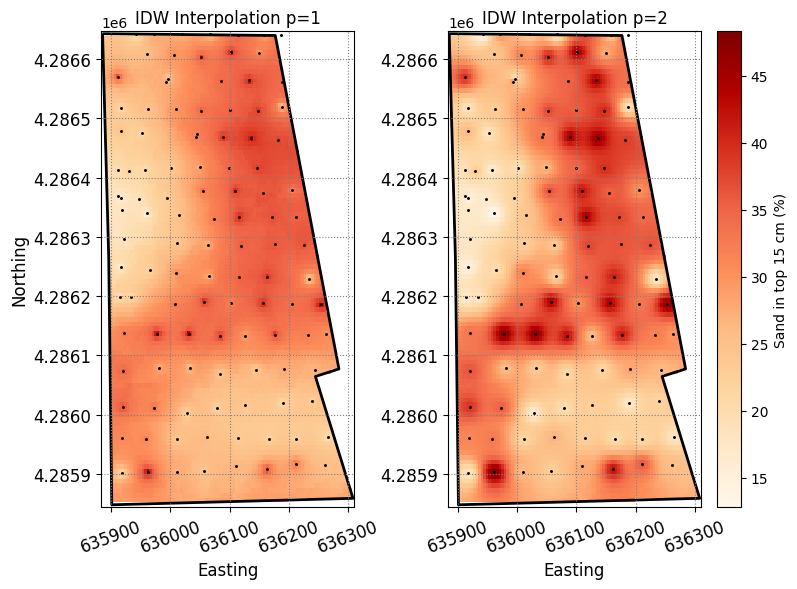
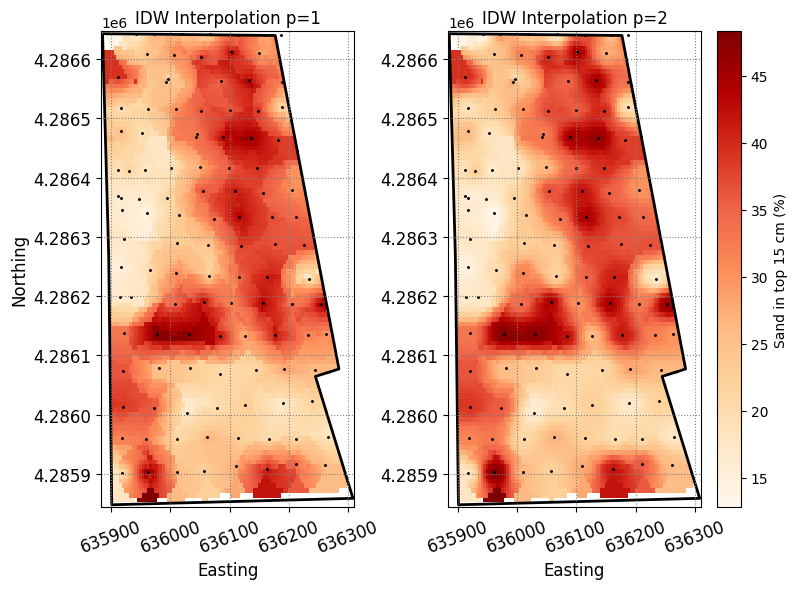
Added analytical soution

diff --git a/docs/exercises/optimal_nitrogen_rate.html b/docs/exercises/optimal_nitrogen_rate.html
@@ -800,7 +800,13 @@ gtag('config', 'G-N9033JNDWZ', { 'anonymize_ip': true});
 <div id="quarto-sidebar-glass" data-bs-toggle="collapse" data-bs-target="#quarto-sidebar,#quarto-sidebar-glass"></div>
 <!-- margin-sidebar -->
     <div id="quarto-margin-sidebar" class="sidebar margin-sidebar">
-        
+        <nav id="TOC" role="doc-toc" class="toc-active">
+    <h2 id="toc-title">Table of contents</h2>
+   
+  <ul>
+  <li><a href="#analytical-solution" id="toc-analytical-solution" class="nav-link active" data-scroll-target="#analytical-solution">Analytical solution</a></li>
+  </ul>
+<div class="toc-actions"><div><i class="bi bi-github"></i></div><div class="action-links"><p><a href="https://github.dev/soilwater/pynotes-agriscience/blob/main/exercises/optimal_nitrogen_rate.ipynb" class="toc-action">Edit this page</a></p></div></div></nav>
     </div>
 <!-- main -->
 <main class="content" id="quarto-document-content">
@@ -837,22 +843,22 @@ gtag('config', 'G-N9033JNDWZ', { 'anonymize_ip': true});
 <p><strong>Dataset description</strong>: Fertilized corn crop in Nebraska.</p>
 <p>Corn Trial conducted jointly with Dennis Francis and Jim Schepers, USDA-ARS, University of Nebraska, Lincoln, NE. Corn trial located near Shelton, NE. Harvested in October, 2003</p>
 <p>Source: <a href="http://www.nue.okstate.edu/Nitrogen_Conference2003/Corn_Research.htm" class="uri">http://www.nue.okstate.edu/Nitrogen_Conference2003/Corn_Research.htm</a></p>
-<div class="cell" data-execution_count="1">
+<div class="cell" data-execution_count="2">
 <div class="sourceCode cell-code" id="cb1"><pre class="sourceCode python code-with-copy"><code class="sourceCode python"><span id="cb1-1"><a href="#cb1-1" aria-hidden="true" tabindex="-1"></a><span class="im">import</span> numpy <span class="im">as</span> np</span>
 <span id="cb1-2"><a href="#cb1-2" aria-hidden="true" tabindex="-1"></a><span class="im">import</span> pandas <span class="im">as</span> pd</span>
 <span id="cb1-3"><a href="#cb1-3" aria-hidden="true" tabindex="-1"></a><span class="im">import</span> matplotlib.pyplot <span class="im">as</span> plt</span>
 <span id="cb1-4"><a href="#cb1-4" aria-hidden="true" tabindex="-1"></a><span class="im">from</span> numpy.polynomial <span class="im">import</span> polynomial <span class="im">as</span> P</span></code><button title="Copy to Clipboard" class="code-copy-button"><i class="bi"></i></button></pre></div>
 </div>
-<div class="cell" data-execution_count="7">
+<div class="cell" data-execution_count="3">
 <div class="sourceCode cell-code" id="cb2"><pre class="sourceCode python code-with-copy"><code class="sourceCode python"><span id="cb2-1"><a href="#cb2-1" aria-hidden="true" tabindex="-1"></a><span class="co"># Define auxiliary function for computing the root mean squared error (RMSE)</span></span>
 <span id="cb2-2"><a href="#cb2-2" aria-hidden="true" tabindex="-1"></a>rmse_fn <span class="op">=</span> <span class="kw">lambda</span> obs,pred: np.sqrt(np.mean((obs <span class="op">-</span> pred)<span class="op">**</span><span class="dv">2</span>))</span></code><button title="Copy to Clipboard" class="code-copy-button"><i class="bi"></i></button></pre></div>
 </div>
-<div class="cell" data-execution_count="3">
+<div class="cell" data-execution_count="4">
 <div class="sourceCode cell-code" id="cb3"><pre class="sourceCode python code-with-copy"><code class="sourceCode python"><span id="cb3-1"><a href="#cb3-1" aria-hidden="true" tabindex="-1"></a><span class="co"># Fit polynomial: Example using yield responses to nitrogen rates</span></span>
 <span id="cb3-2"><a href="#cb3-2" aria-hidden="true" tabindex="-1"></a>yield_obs <span class="op">=</span> [<span class="dv">118</span>, <span class="dv">165</span>, <span class="dv">170</span>, <span class="dv">193</span>, <span class="dv">180</span>, <span class="dv">181</span>, <span class="dv">141</span>, <span class="dv">177</span>, <span class="dv">165</span>, <span class="dv">197</span>, <span class="dv">175</span>] <span class="co"># Corn yield</span></span>
 <span id="cb3-3"><a href="#cb3-3" aria-hidden="true" tabindex="-1"></a>nitrogen_obs <span class="op">=</span>  [<span class="dv">0</span>, <span class="dv">89</span>, <span class="dv">161</span>, <span class="dv">165</span>, <span class="dv">80</span>, <span class="dv">160</span>, <span class="dv">37</span>, <span class="dv">105</span>, <span class="dv">69</span>, <span class="dv">123</span>, <span class="dv">141</span>]</span></code><button title="Copy to Clipboard" class="code-copy-button"><i class="bi"></i></button></pre></div>
 </div>
-<div class="cell" data-execution_count="4">
+<div class="cell" data-execution_count="5">
 <div class="sourceCode cell-code" id="cb4"><pre class="sourceCode python code-with-copy"><code class="sourceCode python"><span id="cb4-1"><a href="#cb4-1" aria-hidden="true" tabindex="-1"></a><span class="co"># Visualize field observations</span></span>
 <span id="cb4-2"><a href="#cb4-2" aria-hidden="true" tabindex="-1"></a></span>
 <span id="cb4-3"><a href="#cb4-3" aria-hidden="true" tabindex="-1"></a>plt.figure(figsize<span class="op">=</span>(<span class="dv">5</span>,<span class="dv">4</span>))</span>
@@ -864,7 +870,7 @@ gtag('config', 'G-N9033JNDWZ', { 'anonymize_ip': true});
 <p><img src="optimal_nitrogen_rate_files/figure-html/cell-5-output-1.png" class="img-fluid"></p>
 </div>
 </div>
-<div class="cell" data-execution_count="11">
+<div class="cell" data-execution_count="6">
 <div class="sourceCode cell-code" id="cb5"><pre class="sourceCode python code-with-copy"><code class="sourceCode python"><span id="cb5-1"><a href="#cb5-1" aria-hidden="true" tabindex="-1"></a><span class="co"># Fit polynomial model</span></span>
 <span id="cb5-2"><a href="#cb5-2" aria-hidden="true" tabindex="-1"></a>par <span class="op">=</span> P.polyfit(nitrogen_obs, yield_obs, <span class="dv">2</span>)</span>
 <span id="cb5-3"><a href="#cb5-3" aria-hidden="true" tabindex="-1"></a><span class="bu">print</span>(par)</span>
@@ -874,7 +880,7 @@ gtag('config', 'G-N9033JNDWZ', { 'anonymize_ip': true});
 <pre><code>[ 1.15569115e+02  9.61329119e-01 -3.41221057e-03]</code></pre>
 </div>
 </div>
-<div class="cell" data-execution_count="10">
+<div class="cell" data-execution_count="7">
 <div class="sourceCode cell-code" id="cb7"><pre class="sourceCode python code-with-copy"><code class="sourceCode python"><span id="cb7-1"><a href="#cb7-1" aria-hidden="true" tabindex="-1"></a><span class="co"># Compute fitting error</span></span>
 <span id="cb7-2"><a href="#cb7-2" aria-hidden="true" tabindex="-1"></a></span>
 <span id="cb7-3"><a href="#cb7-3" aria-hidden="true" tabindex="-1"></a><span class="co"># Compute </span></span>
@@ -886,15 +892,15 @@ gtag('config', 'G-N9033JNDWZ', { 'anonymize_ip': true});
 <pre><code>8.4 kg/ha</code></pre>
 </div>
 </div>
-<div class="cell" data-execution_count="12">
+<div class="cell" data-execution_count="8">
 <div class="sourceCode cell-code" id="cb9"><pre class="sourceCode python code-with-copy"><code class="sourceCode python"><span id="cb9-1"><a href="#cb9-1" aria-hidden="true" tabindex="-1"></a><span class="co"># Compute fitted curve</span></span>
 <span id="cb9-2"><a href="#cb9-2" aria-hidden="true" tabindex="-1"></a>N_min <span class="op">=</span> np.<span class="bu">min</span>(nitrogen_obs)</span>
 <span id="cb9-3"><a href="#cb9-3" aria-hidden="true" tabindex="-1"></a>N_max <span class="op">=</span> np.<span class="bu">max</span>(nitrogen_obs)</span>
 <span id="cb9-4"><a href="#cb9-4" aria-hidden="true" tabindex="-1"></a></span>
-<span id="cb9-5"><a href="#cb9-5" aria-hidden="true" tabindex="-1"></a>nitrogen_curve <span class="op">=</span> np.linspace(N_min, N_max)</span>
+<span id="cb9-5"><a href="#cb9-5" aria-hidden="true" tabindex="-1"></a>nitrogen_curve <span class="op">=</span> np.linspace(N_min, N_max, <span class="dv">50</span>)</span>
 <span id="cb9-6"><a href="#cb9-6" aria-hidden="true" tabindex="-1"></a>yield_curve <span class="op">=</span> P.polyval(nitrogen_curve, par)</span></code><button title="Copy to Clipboard" class="code-copy-button"><i class="bi"></i></button></pre></div>
 </div>
-<div class="cell" data-execution_count="15">
+<div class="cell" data-execution_count="9">
 <div class="sourceCode cell-code" id="cb10"><pre class="sourceCode python code-with-copy"><code class="sourceCode python"><span id="cb10-1"><a href="#cb10-1" aria-hidden="true" tabindex="-1"></a><span class="co"># Find index at which yield in the nitrogen curve is highest</span></span>
 <span id="cb10-2"><a href="#cb10-2" aria-hidden="true" tabindex="-1"></a>idx_yield_max <span class="op">=</span> np.argmax(yield_curve)</span>
 <span id="cb10-3"><a href="#cb10-3" aria-hidden="true" tabindex="-1"></a></span>
@@ -913,7 +919,7 @@ gtag('config', 'G-N9033JNDWZ', { 'anonymize_ip': true});
 <p>We can also find the optimal Nitrogen rate by approximating the first derivative of the function. Note that <code>np.diff()</code> will return an array that is one-element shorter.</p>
 <div class="sourceCode" id="cb12"><pre class="sourceCode python code-with-copy"><code class="sourceCode python"><span id="cb12-1"><a href="#cb12-1" aria-hidden="true" tabindex="-1"></a>idx <span class="op">=</span> np.argmin(np.<span class="bu">abs</span>(np.diff(yield_curve, <span class="dv">1</span>)))</span>
 <span id="cb12-2"><a href="#cb12-2" aria-hidden="true" tabindex="-1"></a>nitrogen_curve[idx<span class="op">+</span><span class="dv">1</span>]</span></code><button title="Copy to Clipboard" class="code-copy-button"><i class="bi"></i></button></pre></div>
-<div class="cell" data-execution_count="14">
+<div class="cell" data-execution_count="10">
 <div class="sourceCode cell-code" id="cb13"><pre class="sourceCode python code-with-copy"><code class="sourceCode python"><span id="cb13-1"><a href="#cb13-1" aria-hidden="true" tabindex="-1"></a><span class="co"># Visualize field observations</span></span>
 <span id="cb13-2"><a href="#cb13-2" aria-hidden="true" tabindex="-1"></a>plt.figure(figsize<span class="op">=</span>(<span class="dv">5</span>,<span class="dv">4</span>))</span>
 <span id="cb13-3"><a href="#cb13-3" aria-hidden="true" tabindex="-1"></a>plt.scatter(nitrogen_obs, yield_obs, facecolor<span class="op">=</span><span class="st">'w'</span>, edgecolor<span class="op">=</span><span class="st">'k'</span>, label<span class="op">=</span><span class="st">'Observations'</span>)</span>
@@ -929,8 +935,47 @@ gtag('config', 'G-N9033JNDWZ', { 'anonymize_ip': true});
 <p><img src="optimal_nitrogen_rate_files/figure-html/cell-10-output-1.png" class="img-fluid"></p>
 </div>
 </div>
+<section id="analytical-solution" class="level2">
+<h2 class="anchored" data-anchor-id="analytical-solution">Analytical solution</h2>
+<p>We can also use the Sympy module in Python to solve the equation analytically (exact solution). Remember that the optimal nitrogen rate is when yield no longer responds to additional nitrogen fertilizer. Thus, the optimal nitrogen rate occurs when the rate of change of yield as a function of nitrogen rate is zero.</p>
+<div class="cell" data-execution_count="11">
+<div class="sourceCode cell-code" id="cb14"><pre class="sourceCode python code-with-copy"><code class="sourceCode python"><span id="cb14-1"><a href="#cb14-1" aria-hidden="true" tabindex="-1"></a><span class="co"># Import sympy module</span></span>
+<span id="cb14-2"><a href="#cb14-2" aria-hidden="true" tabindex="-1"></a><span class="im">from</span> sympy <span class="im">import</span> symbols, diff, solve, lambdify</span></code><button title="Copy to Clipboard" class="code-copy-button"><i class="bi"></i></button></pre></div>
+</div>
+<div class="cell" data-execution_count="12">
+<div class="sourceCode cell-code" id="cb15"><pre class="sourceCode python code-with-copy"><code class="sourceCode python"><span id="cb15-1"><a href="#cb15-1" aria-hidden="true" tabindex="-1"></a><span class="co"># Define the variable and coefficients of the quadratic polynomial</span></span>
+<span id="cb15-2"><a href="#cb15-2" aria-hidden="true" tabindex="-1"></a>x <span class="op">=</span> symbols(<span class="st">'x'</span>)</span>
+<span id="cb15-3"><a href="#cb15-3" aria-hidden="true" tabindex="-1"></a>a, b, c <span class="op">=</span> symbols(<span class="st">'a b c'</span>)</span>
+<span id="cb15-4"><a href="#cb15-4" aria-hidden="true" tabindex="-1"></a></span>
+<span id="cb15-5"><a href="#cb15-5" aria-hidden="true" tabindex="-1"></a><span class="co"># Define the quadratic polynomial</span></span>
+<span id="cb15-6"><a href="#cb15-6" aria-hidden="true" tabindex="-1"></a>polynomial <span class="op">=</span> a <span class="op">+</span> b<span class="op">*</span>x <span class="op">+</span> c<span class="op">*</span>x<span class="op">**</span><span class="dv">2</span> </span>
+<span id="cb15-7"><a href="#cb15-7" aria-hidden="true" tabindex="-1"></a></span>
+<span id="cb15-8"><a href="#cb15-8" aria-hidden="true" tabindex="-1"></a><span class="co"># Compute the first derivative of the polynomial with respect to x</span></span>
+<span id="cb15-9"><a href="#cb15-9" aria-hidden="true" tabindex="-1"></a>first_derivative <span class="op">=</span> diff(polynomial, x)</span>
+<span id="cb15-10"><a href="#cb15-10" aria-hidden="true" tabindex="-1"></a></span>
+<span id="cb15-11"><a href="#cb15-11" aria-hidden="true" tabindex="-1"></a><span class="co"># Solve for x where the first derivative equals zero</span></span>
+<span id="cb15-12"><a href="#cb15-12" aria-hidden="true" tabindex="-1"></a><span class="co"># Solve accepts: a single Expr or Poly that must be zero</span></span>
+<span id="cb15-13"><a href="#cb15-13" aria-hidden="true" tabindex="-1"></a>solution <span class="op">=</span> solve(first_derivative, x)</span>
+<span id="cb15-14"><a href="#cb15-14" aria-hidden="true" tabindex="-1"></a><span class="bu">print</span>(solution)</span></code><button title="Copy to Clipboard" class="code-copy-button"><i class="bi"></i></button></pre></div>
+<div class="cell-output cell-output-stdout">
+<pre><code>[-b/(2*c)]</code></pre>
+</div>
+</div>
+<div class="cell" data-execution_count="26">
+<div class="sourceCode cell-code" id="cb17"><pre class="sourceCode python code-with-copy"><code class="sourceCode python"><span id="cb17-1"><a href="#cb17-1" aria-hidden="true" tabindex="-1"></a><span class="co"># Convert symbolic solution into lambda function</span></span>
+<span id="cb17-2"><a href="#cb17-2" aria-hidden="true" tabindex="-1"></a>fun <span class="op">=</span> lambdify((b,c),solution)</span></code><button title="Copy to Clipboard" class="code-copy-button"><i class="bi"></i></button></pre></div>
+</div>
+<div class="cell" data-execution_count="29">
+<div class="sourceCode cell-code" id="cb18"><pre class="sourceCode python code-with-copy"><code class="sourceCode python"><span id="cb18-1"><a href="#cb18-1" aria-hidden="true" tabindex="-1"></a><span class="co"># Call the new lambda function with b and c coefficients as inputs</span></span>
+<span id="cb18-2"><a href="#cb18-2" aria-hidden="true" tabindex="-1"></a>fun(par[<span class="dv">1</span>],par[<span class="dv">2</span>])</span></code><button title="Copy to Clipboard" class="code-copy-button"><i class="bi"></i></button></pre></div>
+<div class="cell-output cell-output-display" data-execution_count="29">
+<pre><code>[140.86603077026513]</code></pre>
+</div>
+</div>
+<p>The above answer represents the exact optimal nitrogen rate. THe value that we obtained earlier using the yield curve is very close to this value.</p>
 
 
+</section>
 
 </main> <!-- /main -->
 <script id="quarto-html-after-body" type="application/javascript">
@@ -1190,7 +1235,7 @@ window.document.addEventListener("DOMContentLoaded", function (event) {
  Material available for free under the Creative Commons Attribution-NonCommercial-ShareAlike (CC BY-NC-SA) license
   </li>  
 </ul>
-    <div class="toc-actions"><div><i class="bi bi-github"></i></div><div class="action-links"><p><a href="https://github.dev/soilwater/pynotes-agriscience/blob/main/exercises/optimal_nitrogen_rate.ipynb" class="toc-action">Edit this page</a></p></div></div></div>
+    </div>
     <div class="nav-footer-right">
       &nbsp;
     </div>
